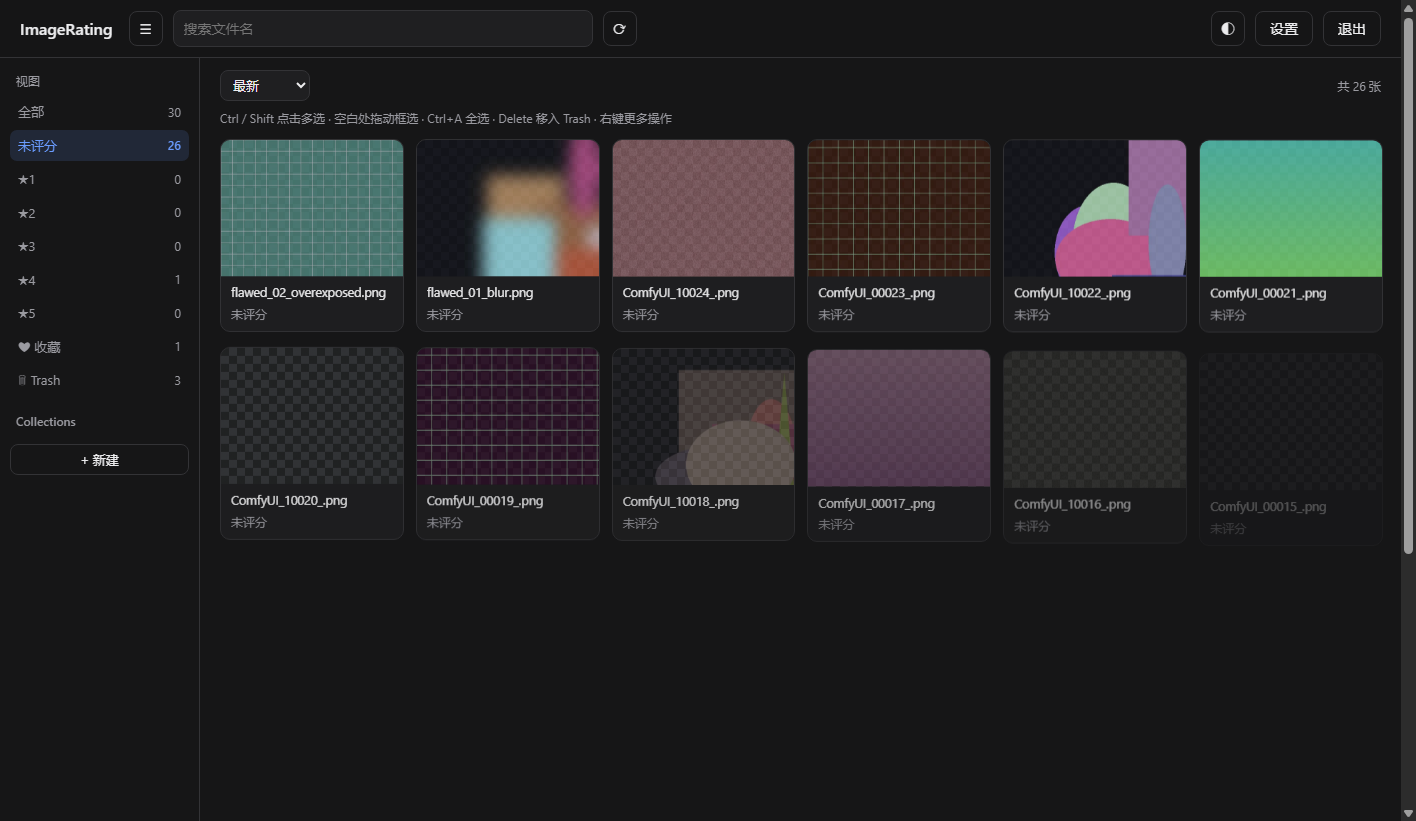
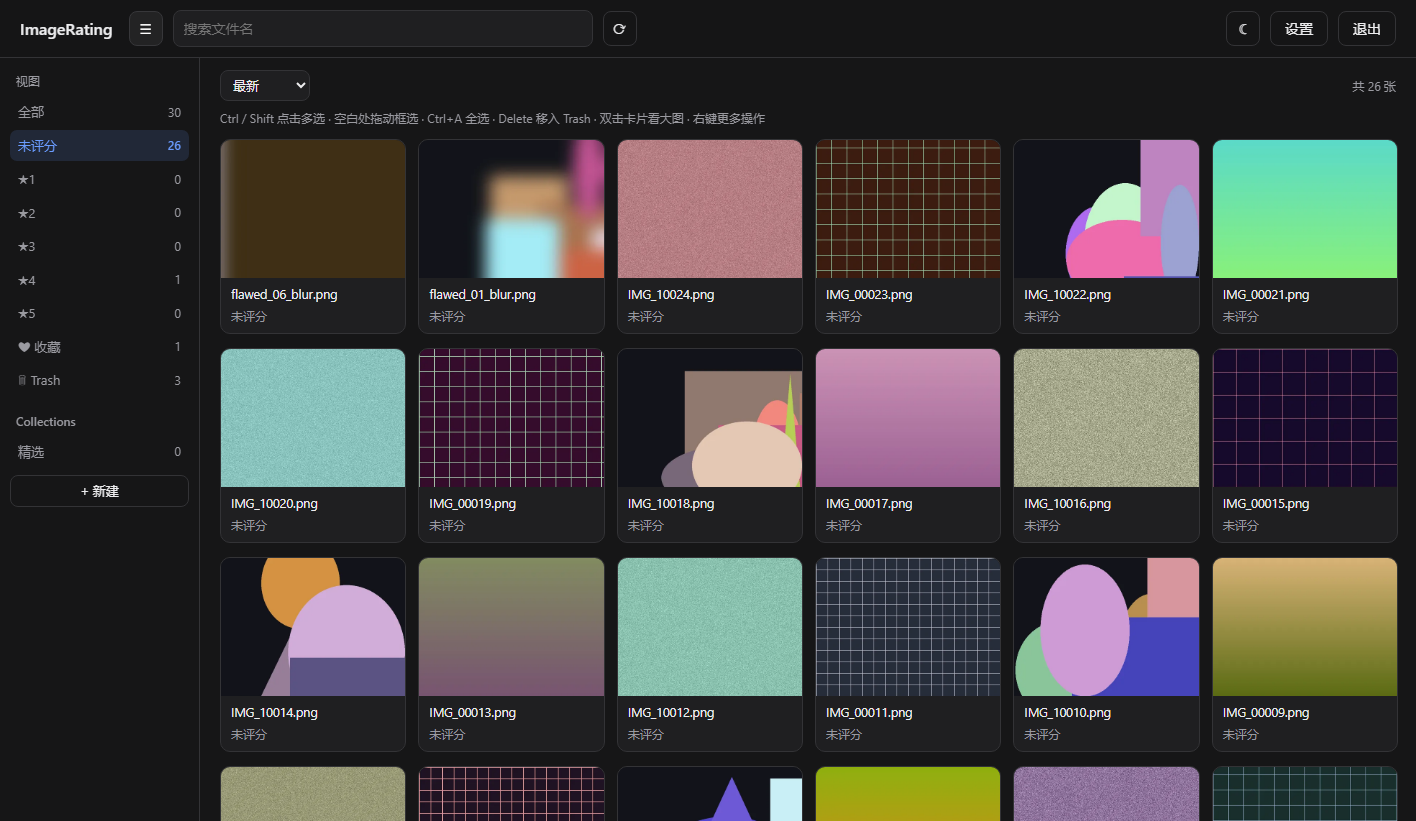
docs: 公开内容统一 ImageView 命名并发布 v0.3.0
README / docs / AGENTS.md 使用 ImageView 公开名称（网页界面内部名保持 ImageRating）；移除 ComfyUI 与 AI 出图相关暗示、个人路径与姓名；合成样图改用 IMG_* 中性命名；重拍 Grid 截图并删除未使用的旧截图；版本号升到 0.3.0。

diff --git a/web/index.html b/web/index.html
@@ -168,9 +168,9 @@
   </div>
   <form id="settings-root-form" class="form">
     <h3>图库根目录</h3>
-    <p class="muted note">ComfyUI 输出目录。保存后若目录发生变化会自动重新扫描。</p>
+    <p class="muted note">图片目录。保存后若目录发生变化会自动重新扫描。</p>
     <label for="set-root">根目录</label>
-    <input id="set-root" type="text" spellcheck="false" placeholder="D:/ComfyUI/output">
+    <input id="set-root" type="text" spellcheck="false" placeholder="D:/Pictures">
     <div class="form-foot"><button type="submit">保存</button></div>
   </form>
   <h3>服务器信息</h3>

diff --git a/tests/make_samples.py b/tests/make_samples.py
@@ -6,9 +6,9 @@
 
 样图特征：
 - 尺寸在 512 / 768 / 1024 之间轮换，内容在渐变 / 几何形状 / 网格 / 噪声之间轮换。
-- 一半文件放到 ``<out>/batch/`` 子目录，模拟 ComfyUI 按日期/批次输出的结构。
+- 一半文件放到 ``<out>/batch/`` 子目录，模拟按批次分目录存放图片的结构。
 - ``--flawed N`` 额外生成 N 张明显有瑕疵的图（严重模糊 / 过曝 / 色偏 / 大片黑边 / 噪点），
-  文件名以 ``flawed_`` 开头，供 Leo 人工验证 Ranking 快捷键手感。
+  文件名以 ``flawed_`` 开头，供人工验证 Ranking 快捷键手感。
 
 本模块不依赖 pytest，测试里可直接 ``from tests import make_samples`` 调用函数。
 """
@@ -171,8 +171,8 @@ def generate(out_dir, count: int = 24, flawed: int = 0, seed: int = 1) -> list[P
         kind = KINDS[i % len(KINDS)]
         in_batch = i % 2 == 1
         sub = out / "batch" if in_batch else out
-        # ComfyUI 风格的递增文件名，保证互不重名
-        stem = f"ComfyUI_{10001 + i:05d}_" if in_batch else f"ComfyUI_{i + 1:05d}_"
+        # 递增文件名，保证互不重名
+        stem = f"IMG_{10001 + i:05d}" if in_batch else f"IMG_{i + 1:05d}"
         paths.append(make_image(sub / f"{stem}.png", size=size, kind=kind, seed=seed + i))
 
     for j in range(flawed):

diff --git a/tests/test_api.py b/tests/test_api.py
@@ -983,7 +983,7 @@ class TestSettings(ApiTestCase):
 
         images = self.images()
         self.assertEqual(images["total"], 3, "改 root 后应自动扫描新目录")
-        self.assertIsNotNone(self.find("ComfyUI_00001_.png"))
+        self.assertIsNotNone(self.find("IMG_00001.png"))
 
 
 if __name__ == "__main__":

diff --git a/app/__init__.py b/app/__init__.py
@@ -1,4 +1,4 @@
-"""ImageRating：ComfyUI 出图评分与归档工具。"""
+"""ImageRating：本地图片评分与归档工具。"""
 
 # 版本号与 pyproject.toml 的 project.version 保持一致（两处同步）。
-__version__ = "0.2.1"
+__version__ = "0.3.0"

diff --git a/README.md b/README.md
@@ -1,8 +1,8 @@
-# ImageRating
+# ImageView
 
-**v0.2.1**
+**v0.3.0**
 
-ComfyUI 出图评分与归档工具：一个跑在 ComfyUI 主机上的本地 Web 应用，浏览器输密码访问。
+本地图片评分与归档工具：一个放在自己电脑或局域网里运行的单用户 Web 应用，浏览器输密码访问，图片与评分数据都留在本机。
 评分只写数据库（图片 Meta），Collection 负责归档，Trash 是内置集合；**判分与归档都不动磁盘文件**，只有你显式点「物理整理」时才把 Trash 里的图移到 `_trash/` 子目录，且可一键恢复。
 
 ## 界面预览
@@ -24,6 +24,7 @@ ComfyUI 出图评分与归档工具：一个跑在 ComfyUI 主机上的本地 We
 ## 当前能力
 
 - **Ranking 视图**：一张大图，快捷键 `1`–`5` 打分、`0` 作废、`L` 收藏，打完自动下一张
+- **快速翻页预加载**：Ranking 提前缓存前后几张原图，并在接近页尾时预取下一页；连续按 `←/→` 或打分自动前进时基本无需等待
 - **灯箱**：点击大图 / 按 `F` / 网格双击卡片 / 抽屉「⤢ 看大图」，放大到整屏看细节，打分等快捷键照常可用
 - **`Ctrl+Z` 撤回**：打分、收藏、Trash、Collection 操作都能一步步撤回（最多 50 步，刷新页面后清空）
 - **Grid 视图**：缩略图网格、无限滚动、多选 / 框选、批量打分 / 收藏 / 移入 Trash / 加入 Collection
@@ -51,48 +52,48 @@ ComfyUI 出图评分与归档工具：一个跑在 ComfyUI 主机上的本地 We
 
 ### 环境要求
 
-- [uv](https://docs.astral.sh/uv/) 0.6+（依赖由它管理）
-- Python 3.10+（uv 会自动选可用解释器；开发环境验证过 3.12 / 3.13）
+- Windows 10 / 11（主平台；Linux / macOS 用 `run.sh`，需先安装 [uv](https://docs.astral.sh/uv/)）
+- Python 3.10+（由 uv 管理，一般无需手动安装；开发环境验证过 3.12 / 3.13）
 - 依赖：FastAPI、uvicorn、Pillow，版本由 `pyproject.toml` + `uv.lock` 锁定
 
-### 在 ComfyUI 主机上部署
+### 启动与更新（Windows）
 
-1. 把本仓库拷到 ComfyUI 主机（例如 `D:\Desktop\ImageRating`）。
-2. 安装 uv（只需一次，已装可跳过）：
-
-   ```powershell
-   winget install --id=astral-sh.uv -e
-   # 或
-   python -m pip install uv
-   ```
-
-3. 启动（三种任选，效果相同）：
+1. 把本仓库放到任意目录（例如 `D:\Apps\ImageView`）。
+2. 双击 `start.bat` 启动：
+   - 首次运行会自动定位 uv 并同步依赖；机器上还没有 uv 时，按窗口提示确认即可自动安装；
+   - 如果服务已经在运行，会直接打开浏览器，不会重复启动；
+   - 启动就绪后自动打开 `http://127.0.0.1:17900`，窗口保留运行日志。
+3. 双击 `update.bat` 更新：先校验当前目录是干净的 git 工作区，再拉取最新代码、同步依赖并重启服务。
+   这个脚本只对 `git clone` 得到的目录有效；直接下载 zip 的用户重新下载覆盖即可，`data/` 与 `config.json` 不受影响。
+4. 手动兜底启动：
 
    ```powershell
-   .\start.bat        # Windows 双击也行
    .\run.ps1          # Windows PowerShell
    ./run.sh           # Linux / macOS（首次先 chmod +x run.sh）
    ```
 
    它们都等价于 `uv run python -m app`；`uv run` 会按 `pyproject.toml` / `uv.lock` 自动创建 `.venv` 并补齐依赖。
-   启动日志会打印本机与局域网访问地址，默认端口 **17900**、监听 `0.0.0.0`：
 
-   - 本机：`http://127.0.0.1:17900`
-   - 局域网：`http://<这台机器的IP>:17900`
+启动日志会打印本机与局域网访问地址，默认端口 **17900**、监听 `0.0.0.0`：
 
-   如需改端口 / 监听地址，把 `config.example.json` 复制成 `config.json` 后修改。
+- 本机：`http://127.0.0.1:17900`
+- 局域网：`http://<这台机器的IP>:17900`
 
-4. 首次启动时 Windows 防火墙可能弹窗，允许「专用网络」访问，否则同网段设备连不上。
-5. 浏览器打开 `http://<ComfyUI主机IP>:17900`：
-   - 首次使用会要求设置访问密码（至少 4 位）
-   - 进设置页把「图片根目录」填成 ComfyUI 的输出目录（例如 `D:\ComfyUI\output`）
-   - 点顶栏的 ⟳ 扫描，扫描完成后就能开始打分
+如需改端口 / 监听地址，把 `config.example.json` 复制成 `config.json` 后修改。
+首次启动时 Windows 防火墙可能弹窗，允许「专用网络」访问，否则同网段设备连不上。
+
+### 首次使用
+
+1. 浏览器打开 `http://127.0.0.1:17900`（或局域网地址）。
+2. 首次使用会要求设置访问密码（至少 4 位）。
+3. 进设置页把「图片根目录」填成你的图片目录（例如 `D:\Pictures`）。
+4. 点顶栏的 ⟳ 扫描，扫描完成后就能开始打分。
 
 更细的部署、开机自启、备份与排障见 [docs/DEPLOYMENT.md](docs/DEPLOYMENT.md)。
 
 ## 上手流程
 
-1. **设置根目录并扫描**：设置页填入 ComfyUI 输出目录，保存后自动扫描；之后点 ⟳ 增量扫描。
+1. **设置根目录并扫描**：设置页填入图片目录（例如 `D:\Pictures`），保存后自动扫描；之后点 ⟳ 增量扫描。
 2. **Ranking 打分**：在「未评分」视图逐张过，按 `1`–`5` 打星；有明显瑕疵按 `0` 作废。
 3. **Grid 批量整理**：切到 Grid，多选后批量打分 / 收藏 / 移入 Trash / 加入 Collection。
 4. **Collection 归档**：新建 Collection（如「精选」「待修」），把图加进去；一张图可属于多个。
@@ -126,7 +127,7 @@ ComfyUI 出图评分与归档工具：一个跑在 ComfyUI 主机上的本地 We
 - `config.json`：仅 `host` / `port` / `data_dir` 三个部署参数，可选。
 - 以上都在 `.gitignore` 里，不会进版本库。
 
-在线 / 离线备份命令、恢复步骤与迁移方法见 [docs/DEPLOYMENT.md](docs/DEPLOYMENT.md#8-数据与备份)。
+在线 / 离线备份命令、恢复步骤与迁移方法见 [docs/DEPLOYMENT.md](docs/DEPLOYMENT.md#10-数据与备份)。
 
 ## 项目结构
 
@@ -135,7 +136,8 @@ app/          FastAPI 后端（路由、SQLite、鉴权、扫描）
 web/          原生 HTML/CSS/JS 单页前端（无构建）
 tests/        unittest + TestClient 集成测试、合成样图生成器
 docs/         API 契约、架构、部署、开发文档与界面截图
-run.ps1 / run.sh / start.bat   启动脚本
+start.bat / update.bat        Windows 双击启动 / 更新并重启
+run.ps1 / run.sh              兜底启动脚本
 pyproject.toml / uv.lock       依赖声明与锁定（uv）
 ```
 
@@ -158,13 +160,13 @@ uv run python tests/make_samples.py --out .\tests\samples --count 24 --flawed 6
 不会。只有「物理整理」和「恢复」会移动文件，且只在 Trash 与 `<根目录>/_trash/` 之间移动，不删除任何文件。
 
 **局域网其他设备打不开？**
-先确认本机 `http://127.0.0.1:17900` 能打开；再检查 Windows 防火墙是否放行「专用网络」、`config.json` 的 `host` 是否为 `0.0.0.0`、两台设备是否同一网段。详见 [部署与运维](docs/DEPLOYMENT.md#6-局域网访问)。
+先确认本机 `http://127.0.0.1:17900` 能打开；再检查 Windows 防火墙是否放行「专用网络」、`config.json` 的 `host` 是否为 `0.0.0.0`、两台设备是否同一网段。详见 [部署与运维](docs/DEPLOYMENT.md#8-局域网访问)。
 
 **忘记密码了怎么办？**
 停止服务后按 [重置密码](docs/DEPLOYMENT.md#忘记密码重置不丢评分) 清掉密码哈希再启动，评分与 Collection 都不会丢。
 
 **换电脑 / 换目录怎么迁移？**
-备份 `data/rating.db`；新机器上改「图库根目录」并重新扫描即可，评分按相对路径匹配。步骤见 [迁移](docs/DEPLOYMENT.md#84-迁移到另一台机器)。
+备份 `data/rating.db`；新机器上改「图库根目录」并重新扫描即可，评分按相对路径匹配。步骤见 [迁移](docs/DEPLOYMENT.md#104-迁移到另一台机器)。
 
 **能直接暴露到公网访问吗？**
 不建议。应用是 HTTP 明文、单密码、无登录限速，只适合可信局域网；远程访问请用 VPN 或 SSH 隧道。
@@ -182,6 +184,14 @@ uv run python tests/make_samples.py --out .\tests\samples --count 24 --flawed 6
 - `docs/screenshots/`：界面截图。
 
 ## 更新日志
+
+### 0.3.0
+
+- 新增 Ranking 预加载：提前缓存前后几张原图，并在接近页尾时预取下一页，快速翻页 / 打分自动前进时不再等待
+- 重做 Windows 一键启动：`start.bat` 双击即可启动，自动定位 uv、同步依赖、就绪后打开浏览器；已在运行则直接打开浏览器。修复了之前的窗口闪退与中文乱码
+- 新增 `update.bat`：双击从 GitHub 拉取最新代码、同步依赖并重启服务（仅对 `git clone` 的目录有效）
+- 公开内容清理：文档统一使用 ImageView 命名（网页界面内部名称仍为 ImageRating），示例图片文件名改为 `IMG_*.png`
+- 测试与文档：补充预加载的手动验收项，部署文档更新一键启动 / 更新脚本
 
 ### 0.2.1
 
@@ -201,7 +211,10 @@ uv run python tests/make_samples.py --out .\tests\samples --count 24 --flawed 6
 
 ## 暂未实现（后续候选）
 
-- 展示 ComfyUI PNG 内嵌的 prompt / workflow 元数据
 - 按 Collection 把文件物理归档到各自文件夹
-- 图片对比模式（同 prompt 多 seed 并排）
+- 图片对比模式（多张并排查看）
 - 物理删除图片文件（当前只会移入 `_trash/`）
+
+## License
+
+MIT，见 [LICENSE](LICENSE)。

diff --git a/docs/ARCHITECTURE.md b/docs/ARCHITECTURE.md
@@ -1,11 +1,11 @@
-# ImageRating 架构说明
+# ImageView 架构说明
 
 本文面向维护者，说明系统由哪些部分组成、状态存在哪里，以及关键规则为什么这样设计。
 部署与运维见 [DEPLOYMENT.md](DEPLOYMENT.md)，接口契约见 [API.md](API.md)，开发流程见 [DEVELOPMENT.md](DEVELOPMENT.md)。
 
 ## 1. 定位与设计约束
 
-- **本地单用户 Web 应用**：跑在 ComfyUI 主机上，浏览器通过局域网访问，不面向公网。
+- **本地单用户 Web 应用**：跑在本机上，浏览器通过局域网访问，不面向公网。
 - **元数据与文件分离**：评分、收藏、Collection、密码、图库根目录全部存 SQLite；图片文件只在「物理整理 / 恢复」时移动，任何操作都不删除文件。
 - **零构建前端**：`web/` 下是原生 HTML / CSS / JS，无框架、无打包器、无 CDN，断网可用。
 - **单进程部署**：uvicorn 一个 worker，扫描用进程内后台线程，不引入 Redis、任务队列等外部服务。
@@ -27,7 +27,7 @@
 └──────┬──────────────────────────────┬──────────────────┘
        │                              │
 ┌──────▼──────────────┐      ┌────────▼─────────────────────┐
-│ data/rating.db      │      │ <图片根目录>（ComfyUI 输出） │
+│ data/rating.db      │      │ <图片根目录>（本机图片目录） │
 │ data/thumbs/        │      │   └─ _trash/（整理后）       │
 └─────────────────────┘      └──────────────────────────────┘
 ```
@@ -93,7 +93,7 @@ settings(key, value)
 4. `rel_path` 以 `_trash/` 开头的行不参与 missing 标记 —— 物理整理后 `_trash/` 目录本身不会被扫描，否则每次扫描都会把已整理的图标成缺失。
 5. Trash 包含已物理整理的图（`trashed = 1` 即可），所以整理不会让图从 Trash 视图消失。
 6. Collection 的 `count` 只统计未缺失的图片；成员关系本身不受 Trash 影响。
-7. 数据库是唯一真相：即使图片被 ComfyUI 或用户移动，记录也保留，靠重新扫描标记缺失或恢复。
+7. 数据库是唯一真相：即使图片被用户或其他程序移动，记录也保留，靠重新扫描标记缺失或恢复。
 
 ### 4.3 表结构演进
 
@@ -212,8 +212,7 @@ POST /api/setup  ──┐   ┌── POST /api/login
 - 「随机」排序由每次请求重新 `RANDOM()`，翻页可能重复或漏图，适合单页浏览；
 - 撤回栈在内存里，刷新即丢；
 - 扫描是单线程，大图库首次扫描慢，但之后是增量；
-- 缩略图缓存不自动回收；
-- ComfyUI PNG 内嵌 prompt / workflow 元数据尚未展示（见 README「暂未实现」）。
+- 缩略图缓存不自动回收。
 
 ## 12. 相关文档
 

diff --git a/docs/DEVELOPMENT.md b/docs/DEVELOPMENT.md
@@ -1,4 +1,4 @@
-# ImageRating 开发指南
+# ImageView 开发指南
 
 面向修改代码的人（包括编码 Agent）。系统设计见 [ARCHITECTURE.md](ARCHITECTURE.md)，接口契约见 [API.md](API.md)，部署见 [DEPLOYMENT.md](DEPLOYMENT.md)，必须遵守的产品规则见 [AGENTS.md](../AGENTS.md)。
 
@@ -20,7 +20,7 @@ uv add --dev <包名>
 ## 2. 目录结构
 
 ```
-ImageRating/
+ImageView/
 ├─ app/                 后端（FastAPI）
 │  ├─ __init__.py       版本号
 │  ├─ __main__.py       python -m app 启动入口（读 config.json）
@@ -39,7 +39,7 @@ ImageRating/
 │  └─ make_samples.py   合成样图生成器
 ├─ docs/                API / 架构 / 部署 / 开发 / 截图
 ├─ config.example.json  部署配置示例（复制为 config.json）
-├─ run.ps1 / run.sh / start.bat  启动脚本
+├─ start.bat / update.bat / run.ps1 / run.sh  启动与更新脚本
 ├─ pyproject.toml / uv.lock     依赖声明与锁定
 └─ AGENTS.md            编码 Agent 的项目约束
 ```
@@ -145,6 +145,7 @@ class TestSomething(ApiTestCase):
 自动化测试覆盖不到的部分，改完必须在真实浏览器过一遍：
 
 - [ ] Ranking：大图居中、`1`–`5` 打分后自动前进、`0` 作废进 Trash、`L` 收藏、`←/→` 切换
+- [ ] Ranking 预加载：快速连按 `→` / 打分自动前进时下一张直接出现；DevTools Network 里能看到后续 `/api/img/full` 提前请求，页尾翻页不等待
 - [ ] 灯箱：Ranking 按 `F` / 点大图打开，打分后跟随前进；网格双击 / 右键 / 抽屉按钮打开且锁定单张；`Esc` 关闭后遮罩完全消失
 - [ ] `Ctrl+Z`：打分、收藏、Trash、Collection 都能逐步撤回，撤回后统计与列表一致
 - [ ] Grid：无限滚动、Ctrl/Shift 多选、框选、批量操作、右键菜单
@@ -163,7 +164,7 @@ class TestSomething(ApiTestCase):
 5. README「更新日志」补上本版本条目。
 6. `git status --short` 干净，确认没有 `data/`、`config.json`、`tests/samples/`、`.venv/`、`__pycache__`。
 7. 提交信息用 Conventional Commits（`feat:` / `fix:` / `docs:` / `chore:`），按意图拆分。
-8. 如果要打包发给别人，文件名带版本号（例如 `ImageRating-v0.2.1.zip`），并排除 `.venv/`、`data/`、`config.json`、`tests/samples/`。
+8. 如果要打包发给别人，文件名带版本号（例如 `ImageView-v0.3.0.zip`），并排除 `.venv/`、`data/`、`config.json`、`tests/samples/`。
 
 ## 10. 常见开发问题
 

diff --git a/docs/API.md b/docs/API.md
@@ -1,4 +1,4 @@
-# ImageRating API 契约
+# ImageView API 契约
 
 前后端唯一契约。改动接口必须先改本文件。实现见 `app/main.py`。
 
@@ -17,8 +17,8 @@
 ```json
 {
   "id": 12,
-  "filename": "ComfyUI_00001_.png",
-  "rel_path": "2026-10-31/ComfyUI_00001_.png",
+  "filename": "IMG_00001.png",
+  "rel_path": "2026-10-31/IMG_00001.png",
   "size": 1234567,
   "mtime": 1761926400.0,
   "width": 1024,
@@ -209,7 +209,7 @@
 
 | 方法 | 路径 | 请求 | 响应 |
 |---|---|---|---|
-| GET | `/api/settings` | – | `{"version": "0.2.1", "root": "D:/ComfyUI/output", "host": "0.0.0.0", "port": 17900, "data_dir": "D:/Desktop/ImageRating/data"}` |
+| GET | `/api/settings` | – | `{"version": "0.3.0", "root": "D:/Pictures", "host": "0.0.0.0", "port": 17900, "data_dir": "D:/Apps/ImageView/data"}` |
 | PUT | `/api/settings` | `{"root": "...", "current_password": "...", "new_password": "..."}` 均可选 | `{"ok": true, "scan_started": bool}` |
 
 - `root` 必须存在且是目录，否则 400；改变 root 后自动触发重扫描，`scan_started = true`（若已有扫描在跑则为 `false`）。
